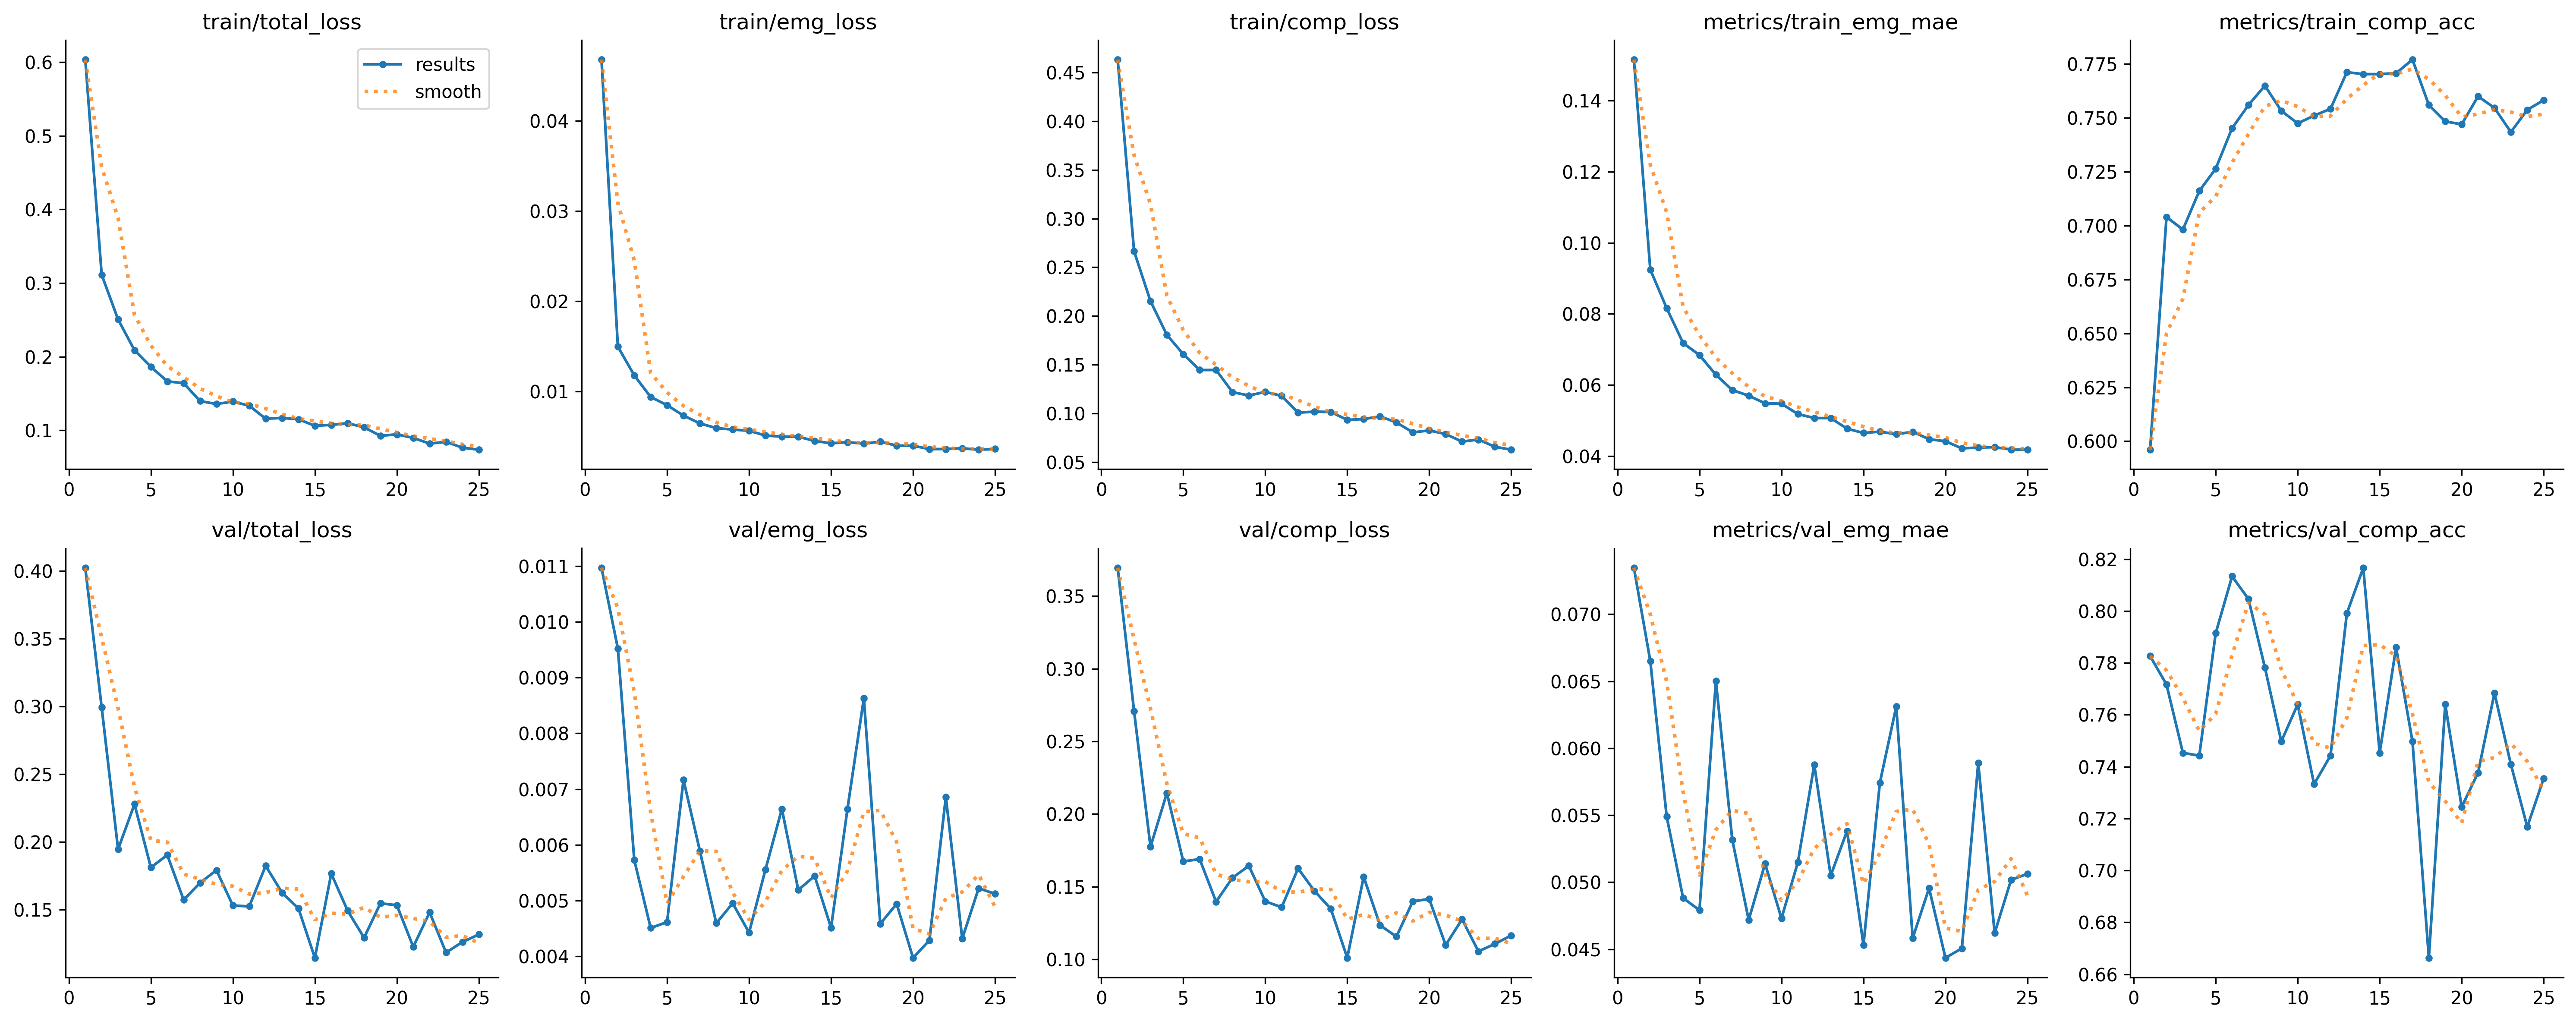
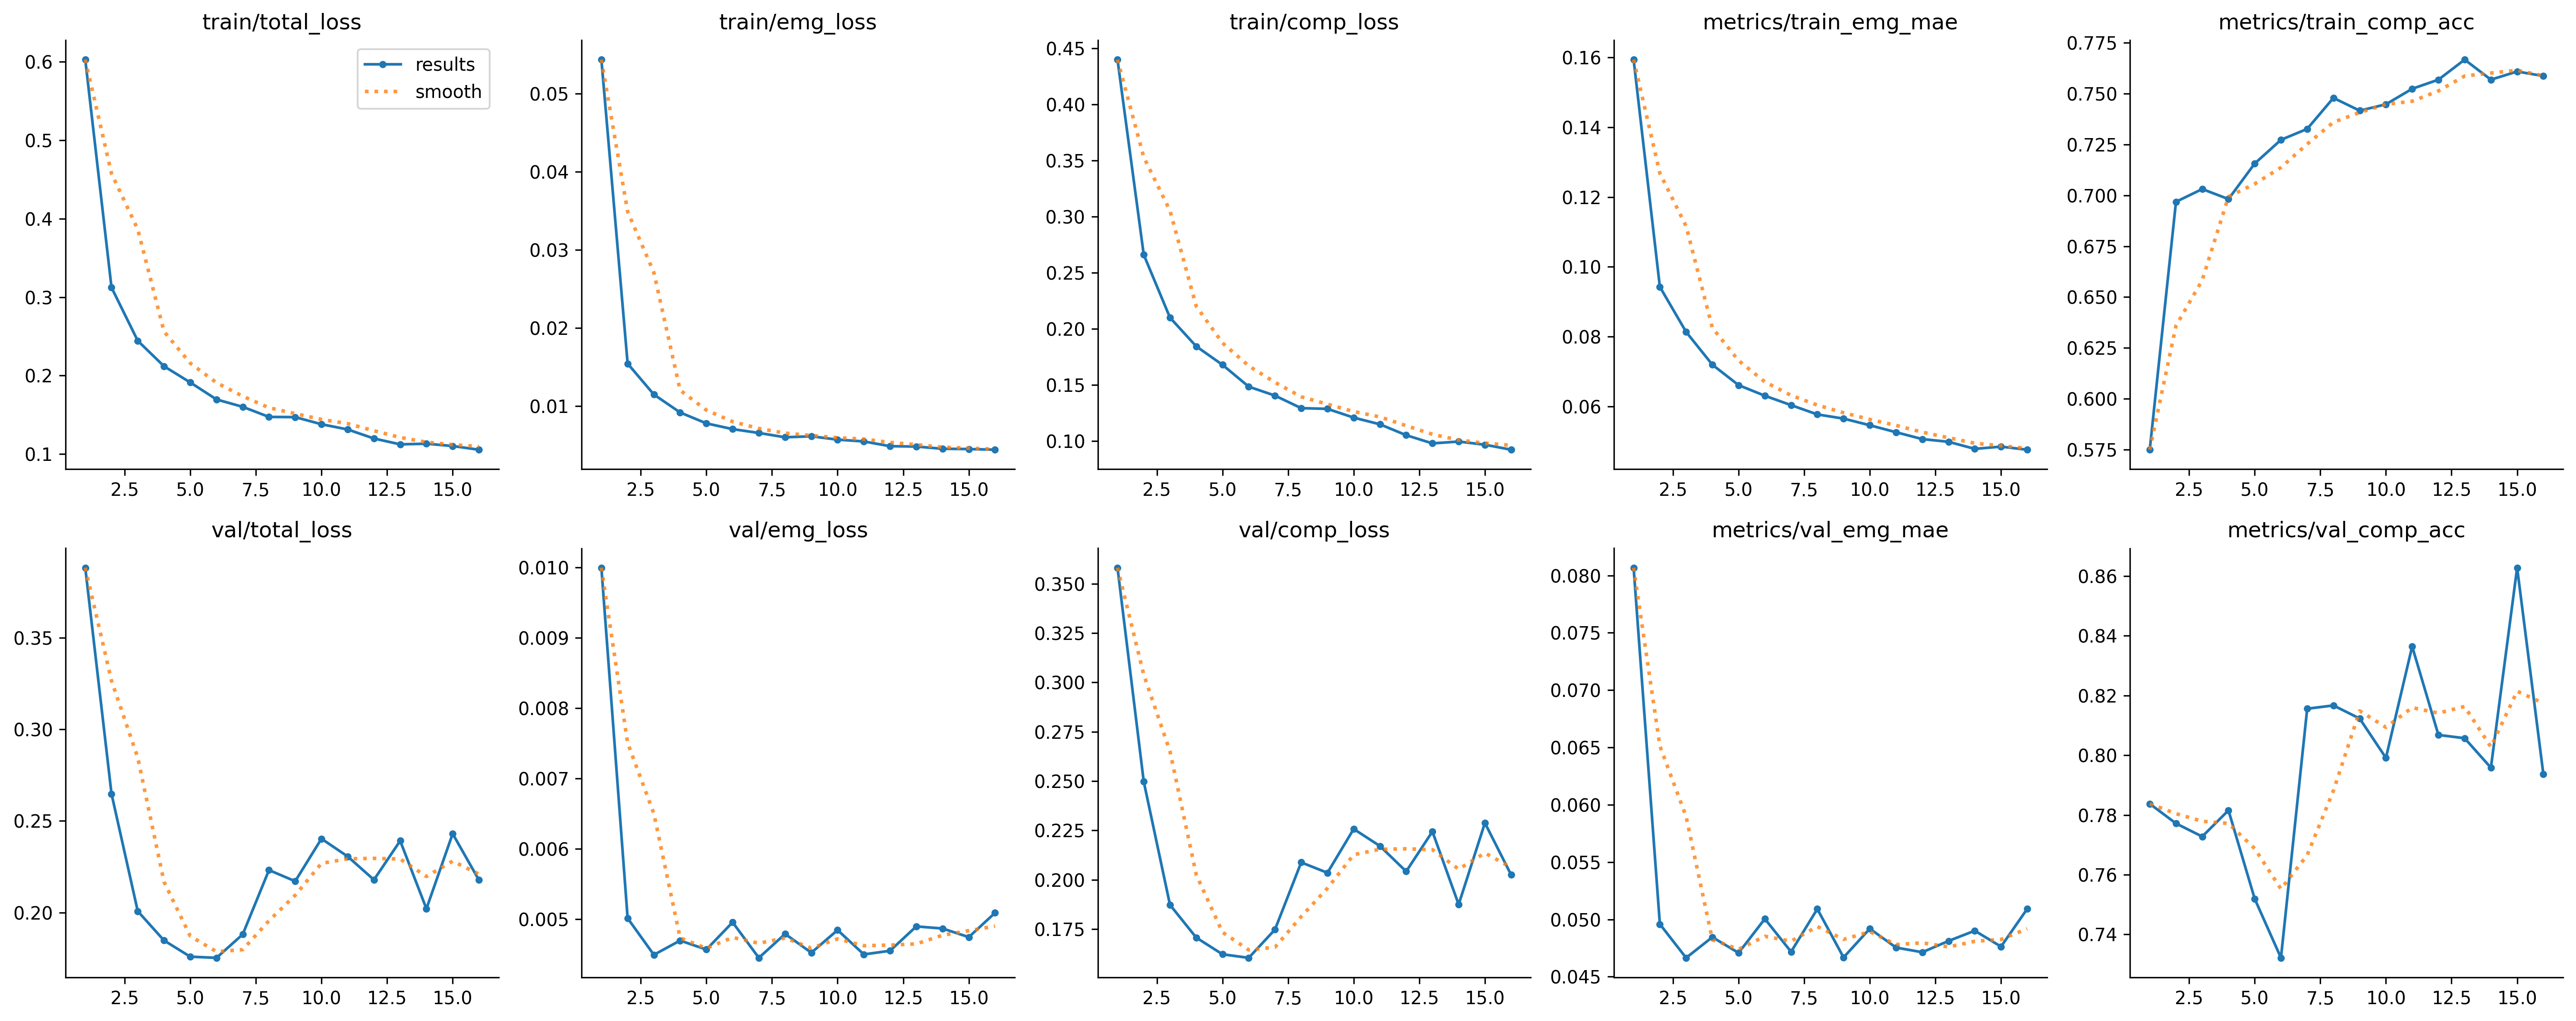
Initial commit: change 0624code

diff --git a/0624code/Features_insert.py b/0624code/Features_insert.py
@@ -3,30 +3,47 @@ import numpy as np
 import os
 
 # ==========================================
-# 參數設定區 (已更新為 0622 處理完的資料)
+# 參數設定區
 # ==========================================
 # 已經轉換好的 EMG 檔案 (含有 Segment，且已轉為 60 FPS 包絡線)
 emg_file_path = r"D:\project\NCU\114\Jumior\AI Project\Dataset\0625\Clean\KUAN_0622_CLEAN_SYNCED_Env_60FPS.csv"
 
-# TRC 檔案列表 (對應 Segment 1~5)
+# TRC 檔案列表 (對應 Segment 1~7)
 trc_files = [
-    r"D:\project\NCU\114\Jumior\AI Project\Dataset\0625\Open\OpenCapData_KUAN\MarkerData\0.trc",
-    r"D:\project\NCU\114\Jumior\AI Project\Dataset\0625\Open\OpenCapData_KUAN\MarkerData\20.trc",
-    r"D:\project\NCU\114\Jumior\AI Project\Dataset\0625\Open\OpenCapData_KUAN\MarkerData\40.trc",
-    r"D:\project\NCU\114\Jumior\AI Project\Dataset\0625\Open\OpenCapData_KUAN\MarkerData\50.trc",
-    r"D:\project\NCU\114\Jumior\AI Project\Dataset\0625\Open\OpenCapData_KUAN\MarkerData\A.trc",
-    r"D:\project\NCU\114\Jumior\AI Project\Dataset\0625\Open\OpenCapData_KUAN\MarkerData\B.trc",
-    r"D:\project\NCU\114\Jumior\AI Project\Dataset\0625\Open\OpenCapData_KUAN\MarkerData\C.trc"
+    r"D:\project\NCU\114\Jumior\AI Project\Dataset\0625\Open\OpenCapData_KUAN\MarkerData\0.trc",   # Seg 1
+    r"D:\project\NCU\114\Jumior\AI Project\Dataset\0625\Open\OpenCapData_KUAN\MarkerData\20.trc",  # Seg 2
+    r"D:\project\NCU\114\Jumior\AI Project\Dataset\0625\Open\OpenCapData_KUAN\MarkerData\40.trc",  # Seg 3
+    r"D:\project\NCU\114\Jumior\AI Project\Dataset\0625\Open\OpenCapData_KUAN\MarkerData\50.trc",  # Seg 4
+    r"D:\project\NCU\114\Jumior\AI Project\Dataset\0625\Open\OpenCapData_KUAN\MarkerData\A.trc",   # Seg 5
+    r"D:\project\NCU\114\Jumior\AI Project\Dataset\0625\Open\OpenCapData_KUAN\MarkerData\B.trc",   # Seg 6
+    r"D:\project\NCU\114\Jumior\AI Project\Dataset\0625\Open\OpenCapData_KUAN\MarkerData\C.trc"    # Seg 7
 ]
 
 # 輸出儲存路徑
 output_dir = r"D:\project\NCU\114\Jumior\AI Project\Dataset\0625\Combined"
 
-# ⚠️ 受試者靜態資料
+# ⚠️ 🌟 靜態特徵設定：加入 Squat_1RM_kg (深蹲最大重量)
 # 性別: 0=女, 1=男
-SUBJECT_INFO = {'Age': 21, 'Height_cm': 179.0, 'Weight_kg': 73.0, 'Gender': 1}
+SUBJECT_INFO = {
+    'Age': 21, 
+    'Height_cm': 179.0, 
+    'Weight_kg': 73.0, 
+    'Gender': 1, 
+    'Squat_1RM_kg': 90.0  # 👈 請依據受試者的實際 1RM 修改這個數字
+}
 
-# ⚠️ MVC 基準值 (已填入剛剛程式算出來的 Global MVC 數值)
+# 🏋️ 🌟 負重設定 (各 Segment 對應的槓片負重量，單位: kg)
+SEGMENT_LOADS_KG = {
+    1: 0.0,   # 徒手
+    2: 20.0,  # 空槓
+    3: 40.0,  
+    4: 50.0,  
+    5: 0.0,  # 對應 A.trc (請視實際狀況修改)
+    6: 0.0,  # 對應 B.trc (請視實際狀況修改)
+    7: 0.0   # 對應 C.trc (請視實際狀況修改)
+}
+
+# ⚠️ MVC 基準值 (用於 EMG 正規化)
 MVC_MAIN_CLEAN_MAX = 18.2 
 MVC_COMP_CLEAN_MAX = 4.5
 
@@ -86,92 +103,69 @@ for segment_idx, trc_path in enumerate(trc_files, start=1):
     # ----------------------------------------------------
     # 2.2 特徵工程：提取需要的骨架點與計算角度/速度/加速度
     # ----------------------------------------------------
-    # 💡 更新：擴展 columns_to_keep，納入背部前傾、雙側膝蓋與腳跟點
     columns_to_keep = {
-        'X1': 'Neck_X', 'Y1': 'Neck_Y', 'Z1': 'Neck_Z',                 # 用於背部前傾
+        'X1': 'Neck_X', 'Y1': 'Neck_Y', 'Z1': 'Neck_Z',                 
         'Y5': 'Shoulder_Y', 'Z5': 'Shoulder_Z',         
-        'X8': 'midHip_X', 'Y8': 'midHip_Y', 'Z8': 'midHip_Z',           # 用於背部前傾基準
+        'X8': 'midHip_X', 'Y8': 'midHip_Y', 'Z8': 'midHip_Z',           
         'X9': 'RHip_X', 'Y9': 'RHip_Y', 'Z9': 'RHip_Z',                 
-        'X10': 'RKnee_X', 'Y10': 'RKnee_Y', 'Z10': 'RKnee_Z',           # 用於膝蓋內凹
-        'X11': 'RAnkle_X', 'Y11': 'RAnkle_Y', 'Z11': 'RAnkle_Z',         # 用於膝蓋內凹
-        'X12': 'Hip_X', 'Y12': 'Hip_Y', 'Z12': 'Hip_Z',                 # 左髖 (維持原名作基準)
-        'X13': 'Knee_X', 'Y13': 'Knee_Y', 'Z13': 'Knee_Z',               # 左膝 (維持原名作基準)
-        'X14': 'Ankle_X', 'Y14': 'Ankle_Y', 'Z14': 'Ankle_Z',             # 左踝 (維持原名作基準)
-        'X15': 'BigToe_X', 'Y15': 'BigToe_Y', 'Z15': 'BigToe_Z',         # 左大腳趾
-        'X16': 'SmallToe_X', 'Y16': 'SmallToe_Y', 'Z16': 'SmallToe_Z',   # 左小腳趾
-        'Y17': 'LHeel_Y',                                               # 左腳跟 (用於墊腳尖)
-        'Y18': 'RBigToe_Y',                                             # 右大腳趾 (用於墊腳尖)
-        'Y20': 'RHeel_Y'                                                # 右腳跟 (用於墊腳尖)
+        'X10': 'RKnee_X', 'Y10': 'RKnee_Y', 'Z10': 'RKnee_Z',           
+        'X11': 'RAnkle_X', 'Y11': 'RAnkle_Y', 'Z11': 'RAnkle_Z',        
+        'X12': 'Hip_X', 'Y12': 'Hip_Y', 'Z12': 'Hip_Z',                 
+        'X13': 'Knee_X', 'Y13': 'Knee_Y', 'Z13': 'Knee_Z',               
+        'X14': 'Ankle_X', 'Y14': 'Ankle_Y', 'Z14': 'Ankle_Z',             
+        'X15': 'BigToe_X', 'Y15': 'BigToe_Y', 'Z15': 'BigToe_Z',         
+        'X16': 'SmallToe_X', 'Y16': 'SmallToe_Y', 'Z16': 'SmallToe_Z',   
+        'Y17': 'LHeel_Y',                                               
+        'Y18': 'RBigToe_Y',                                             
+        'Y20': 'RHeel_Y'                                                
     }
     
     available_cols = {k: v for k, v in columns_to_keep.items() if k in df_resampled_skel.columns}
     df_clean = df_resampled_skel[list(available_cols.keys())].rename(columns=available_cols)
 
-    # 利用 BigToe 與 SmallToe 計算腳掌前緣的中點
     df_clean['Toe_X'] = (df_clean['BigToe_X'] + df_clean['SmallToe_X']) / 2.0
     df_clean['Toe_Y'] = (df_clean['BigToe_Y'] + df_clean['SmallToe_Y']) / 2.0
     df_clean['Toe_Z'] = (df_clean['BigToe_Z'] + df_clean['SmallToe_Z']) / 2.0
     
-    # 原始大腿與小腿的夾角 (計算 Y, Z 軸投影)
     v_thigh = np.array([df_clean['Hip_Z'] - df_clean['Knee_Z'], df_clean['Hip_Y'] - df_clean['Knee_Y']]).T
     v_shank = np.array([df_clean['Ankle_Z'] - df_clean['Knee_Z'], df_clean['Ankle_Y'] - df_clean['Knee_Y']]).T
     df_clean['Knee_Angle'] = calculate_angle(v_thigh, v_shank)
 
-    # 向量 1：大腿 3D 指向
     v_knee_dir = np.array([df_clean['Knee_X'] - df_clean['Hip_X'],
                            df_clean['Knee_Y'] - df_clean['Hip_Y'],
                            df_clean['Knee_Z'] - df_clean['Hip_Z']]).T
     
-    # 向量 2：腳掌 3D 指向
     v_toe_dir = np.array([df_clean['Toe_X'] - df_clean['Ankle_X'],
                           df_clean['Toe_Y'] - df_clean['Ankle_Y'],
                           df_clean['Toe_Z'] - df_clean['Ankle_Z']]).T
     
     df_clean['Knee_Toe_Angle_Diff'] = calculate_angle(v_knee_dir, v_toe_dir)
-    
     ref_height = (df_clean['Shoulder_Y'] - df_clean['Ankle_Y']).max()
     
-    # ====================================================
-    # 🌟 新增：三大代償特徵工程運算 (確保結尾為 _norm / _vel)
-    # ====================================================
-    
-    # ---- 1. 墊腳尖特徵 (Heel Raise) ----
-    # 計算腳跟相對於大腳趾的垂直高度差 (平放時接近常數，墊腳尖時數值顯著正向增加)
+    # ---- 骨架代償特徵 ----
     df_clean['L_Heel_Rise'] = df_clean['LHeel_Y'] - df_clean['BigToe_Y']
     df_clean['R_Heel_Rise'] = df_clean['RHeel_Y'] - df_clean['RBigToe_Y']
-    
-    # 進行身高比例正規化與速度計算
     df_clean['L_Heel_Rise_norm'] = df_clean['L_Heel_Rise'] / ref_height
-    df_clean['R_Heel_Rise_norm'] = df_clean['R_Heel_Rise'] / ref_height # 已補上底線
-    
+    df_clean['R_Heel_Rise_norm'] = df_clean['R_Heel_Rise'] / ref_height
     df_clean['L_Heel_Rise_vel'] = df_clean['L_Heel_Rise_norm'].diff() / dt
     df_clean['R_Heel_Rise_vel'] = df_clean['R_Heel_Rise_norm'].diff() / dt
     df_clean['L_Heel_Rise_vel'] = df_clean['L_Heel_Rise_vel'].fillna(0)
     df_clean['R_Heel_Rise_vel'] = df_clean['R_Heel_Rise_vel'].fillna(0)
 
-    # ---- 2. 膝蓋內凹特徵 (Knee Valgus) ----
-    # 在 X-Z 水平平面上，計算「雙膝距離」與「雙踝距離」
     knee_dist_xz = np.sqrt((df_clean['Knee_X'] - df_clean['RKnee_X'])**2 + (df_clean['Knee_Z'] - df_clean['RKnee_Z'])**2)
     ankle_dist_xz = np.sqrt((df_clean['Ankle_X'] - df_clean['RAnkle_X'])**2 + (df_clean['Ankle_Z'] - df_clean['RAnkle_Z'])**2)
-    # 膝踝距離比：正常下蹲時比例應保持穩定，若內凹則比例會大幅小於 1 且快速下降
     df_clean['Knee_Ankle_Ratio_norm'] = knee_dist_xz / (ankle_dist_xz + 1e-5)
     df_clean['Knee_Ankle_Ratio_vel'] = df_clean['Knee_Ankle_Ratio_norm'].diff() / dt
     df_clean['Knee_Ankle_Ratio_vel'] = df_clean['Knee_Ankle_Ratio_vel'].fillna(0)
 
-    # ---- 3. 背部前傾特徵 (Excessive Forward Trunk Lean) ----
-    # 計算軀幹向量（midHip 到 Neck）在矢狀面 (Y-Z 平面) 的夾角
     trunk_vec_z = df_clean['Neck_Z'] - df_clean['midHip_Z']
     trunk_vec_y = df_clean['Neck_Y'] - df_clean['midHip_Y']
-    # 使用 arctan2 計算與絕對垂直線的角度 (0度代表完全直立，角度越大代表前傾越嚴重)
     df_clean['Trunk_Lean_Angle'] = np.degrees(np.arctan2(np.abs(trunk_vec_z), trunk_vec_y))
-    # 將角度正規化 (除以 180) 與計算角速度
     df_clean['Trunk_Lean_Angle_norm'] = df_clean['Trunk_Lean_Angle'] / 180.0
     df_clean['Trunk_Lean_Angle_vel'] = df_clean['Trunk_Lean_Angle_norm'].diff() / dt
     df_clean['Trunk_Lean_Angle_vel'] = df_clean['Trunk_Lean_Angle_vel'].fillna(0)
-
-    # ====================================================
     
-    # 執行原有的動態特徵迴圈 (Shoulder, Knee, Ankle, Toe 的中心化與速度計算)
+    # 執行原有的動態特徵迴圈
     for joint in ['Shoulder', 'Knee', 'Ankle', 'Toe']:
         axes = ['Y', 'Z'] if joint == 'Shoulder' else ['X', 'Y', 'Z']
         for axis in axes: 
@@ -193,7 +187,6 @@ for segment_idx, trc_path in enumerate(trc_files, start=1):
                 df_clean[acc_col] = df_clean[vel_col].diff() / dt
                 df_clean[acc_col] = df_clean[acc_col].fillna(0)
 
-    # 角度特徵正規化與速度 (原有的 Knee 角度特徵)
     df_clean['Knee_Angle_norm'] = df_clean['Knee_Angle'] / 180.0
     df_clean['Knee_Angle_vel'] = df_clean['Knee_Angle_norm'].diff() / dt
     df_clean['Knee_Angle_vel'] = df_clean['Knee_Angle_vel'].fillna(0)
@@ -203,33 +196,39 @@ for segment_idx, trc_path in enumerate(trc_files, start=1):
     df_clean['Knee_Toe_Diff_vel'] = df_clean['Knee_Toe_Diff_vel'].fillna(0)
     
     # ----------------------------------------------------
-    # 2.3 整合靜態特徵與 EMG 數據
+    # 2.3 整合靜態特徵與 EMG 數據 (🌟 關鍵縮放邏輯在這裡)
     # ----------------------------------------------------
-    # 自動篩選出所有以 _norm, _vel, _acc 結尾的欄位 (我們新加的特徵會自動被收進來)
     df_final_features = df_clean[[col for col in df_clean.columns if col.endswith(('_norm', '_vel', '_acc'))]].copy()
     
-    df_final_features['Subj_Age'] = SUBJECT_INFO['Age']
-    df_final_features['Subj_Height'] = SUBJECT_INFO['Height_cm']
-    df_final_features['Subj_Weight'] = SUBJECT_INFO['Weight_kg']
+    # 🌟 靜態特徵縮小至 0~2 的區間，有助於模型穩定訓練
+    df_final_features['Subj_Age'] = SUBJECT_INFO['Age'] / 100.0             # 例：21 -> 0.21
+    df_final_features['Subj_Height_m'] = SUBJECT_INFO['Height_cm'] / 100.0  # 例：179cm -> 1.79m
+    df_final_features['Subj_Weight_norm'] = SUBJECT_INFO['Weight_kg'] / 100.0 # 例：73kg -> 0.73
     df_final_features['Subj_Gender'] = SUBJECT_INFO['Gender']
+    
+    # 🌟 計算「當下負重」佔「深蹲 1RM」的百分比 (Relative Intensity)
+    current_load_kg = SEGMENT_LOADS_KG.get(segment_idx, 0.0)
+    df_final_features['Load_1RM_Ratio'] = current_load_kg / SUBJECT_INFO['Squat_1RM_kg']
     
     # 提取該組的 EMG 資料
     df_emg_segment = df_emg_all[df_emg_all['Segment'] == segment_idx].copy().reset_index(drop=True)
     
-    # ⚠️ 長度安全對齊：確保骨架特徵長度與 EMG 特徵長度完美一致
+    # 對齊長度
     min_len = min(len(df_final_features), len(df_emg_segment))
     df_final_features = df_final_features.iloc[:min_len].copy()
     
-    # 計算 %MVC，並設定上限為 1.5 (150%)
+    # 計算 EMG %MVC
     emg_main_mvc = np.clip(df_emg_segment['Raw0'].values[:min_len] / MVC_MAIN_CLEAN_MAX, 0, 1.5)
     emg_comp_mvc = np.clip(df_emg_segment['Raw1'].values[:min_len] / MVC_COMP_CLEAN_MAX, 0, 1.5)
     
     df_final_features['EMG_Main_MVC'] = emg_main_mvc
     df_final_features['EMG_Compass_MVC'] = emg_comp_mvc
     
-    # 輸出合併檔案
+    # 儲存
     out_name = os.path.join(output_dir, f"KUAN_Seg_{segment_idx}_Combined_Features.csv")
     df_final_features.to_csv(out_name, index=False)
-    print(f"✅ Segment {segment_idx} 處理完成 (包含靜態特徵、新代償特徵與 EMG_MVC)，已輸出至 {out_name}")
+    
+    load_ratio = df_final_features['Load_1RM_Ratio'].iloc[0]
+    print(f"✅ Segment {segment_idx} (負重: {current_load_kg}kg, 1RM強度: {load_ratio*100:.1f}%) 處理完成！")
 
-print("\n🚀 所有 TRC 與 EMG 特徵合併完成！")
+print("\n🚀 所有 TRC、靜態特徵與 EMG 特徵合併完成！")

diff --git a/0624code/TrainModel.py b/0624code/TrainModel.py
@@ -16,7 +16,7 @@ file_paths = glob.glob(os.path.join(data_dir, "*_Combined_Features.csv"))
 train_files, val_files = train_test_split(file_paths, test_size=0.2, random_state=42)
 
 # 定義特徵欄位名稱
-static_cols = ['Subj_Age', 'Subj_Height', 'Subj_Weight', 'Subj_Gender']
+static_cols = ['Subj_Age', 'Subj_Height_m', 'Subj_Weight_norm', 'Subj_Gender', 'Load_1RM_Ratio']
 label_emg_cols = ['EMG_Main_MVC', 'EMG_Compass_MVC']
 # 💡 更新：定義三個代償標籤的欄位名稱
 label_comp_cols = ['Comp_Heel_Raise', 'Comp_Knee_Valgus', 'Comp_Trunk_Lean']